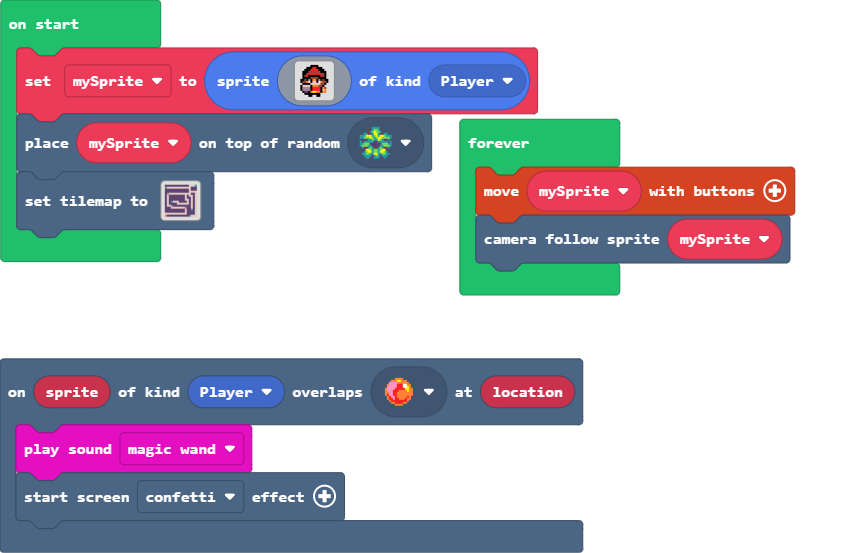
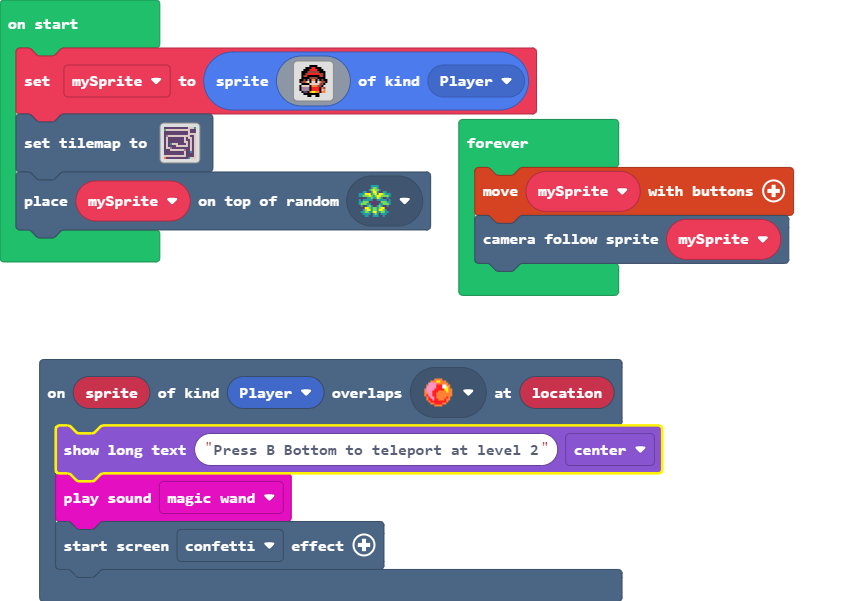
Update main.blocks, main.ts

diff --git a/main.ts b/main.ts
@@ -1,4 +1,5 @@
 scene.onOverlapTile(SpriteKind.Player, sprites.dungeon.collectibleRedCrystal, function (sprite, location) {
+    game.showLongText("Press B Bottom to teleport at level 2", DialogLayout.Center)
     music.magicWand.play()
     effects.confetti.startScreenEffect()
 })
@@ -20,8 +21,8 @@ let mySprite = sprites.create(img`
     . . . f f f f f f f f . . . . . 
     . . . . . f f . . f f . . . . . 
     `, SpriteKind.Player)
-tiles.placeOnRandomTile(mySprite, sprites.castle.shrub)
 tiles.setTilemap(tilemap`level1`)
+tiles.placeOnRandomTile(mySprite, sprites.castle.shrub)
 forever(function () {
     controller.moveSprite(mySprite)
     scene.cameraFollowSprite(mySprite)
